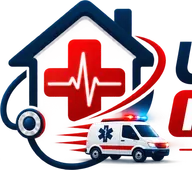
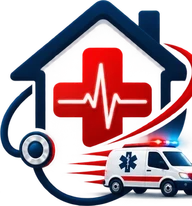
n

diff --git a/src/components/SiteHeader.tsx b/src/components/SiteHeader.tsx
@@ -42,6 +42,8 @@ export function SiteHeader({
     "absolute left-0 top-full z-50 mt-1 min-w-[15rem] rounded-xl border border-border bg-surface p-2 shadow-xl";
   const itemClass = "block rounded-md px-3 py-1.5 text-sm text-ink no-underline hover:bg-primary-tint";
   const linkClass = "whitespace-nowrap rounded-md px-2.5 py-1.5 font-semibold text-primary no-underline hover:bg-primary-tint";
+  const mobileItemClass = "block rounded-md px-3 py-2.5 font-semibold text-primary no-underline hover:bg-primary-tint";
+  const mobileSubItemClass = "block rounded-md px-3 py-2 text-sm text-ink no-underline hover:bg-primary-tint";
 
   const chevron = (
     <svg viewBox="0 0 24 24" aria-hidden="true" className="h-4 w-4 shrink-0">
@@ -70,7 +72,7 @@ export function SiteHeader({
               srcSet="/images/mark-96.webp 96w, /images/mark-192.webp 192w"
               sizes="44px"
               width={96}
-              height={85}
+              height={103}
               alt=""
               fetchPriority="high"
               decoding="sync"
@@ -106,16 +108,79 @@ export function SiteHeader({
         </div>
       </div>
 
+      {/*
+        Two navigations, one source of links.
+        - Mobile (< md): a single "Menu" disclosure. Eight top-level items
+          wrapping across three lines was unreadable on a phone.
+        - Desktop (>= md): the horizontal bar with dropdown panels.
+
+        Both are <details>, so navigation works with JavaScript disabled —
+        this is a static export and an emergency service, so the menu must
+        never depend on a bundle loading. Nested <details> in the mobile
+        panel keeps the initial list short instead of dumping 33 links.
+
+        Neither container may scroll horizontally: an `overflow-x: auto` box
+        whose `overflow-y` is `visible` computes overflow-y to `auto` too,
+        which silently clipped every dropdown to the height of the nav strip.
+      */}
       <nav aria-label="Navigation principale" className="border-b border-border bg-surface">
-        {/*
-          This container must NOT scroll horizontally. The dropdown panels
-          below are absolutely positioned children of it, and per CSS spec an
-          `overflow-x: auto` box whose `overflow-y` is `visible` computes
-          overflow-y to `auto` as well — which clipped every menu to the
-          height of the nav strip on mobile. Wrapping to a second line costs
-          a few pixels and keeps the menus openable.
-        */}
-        <div className="mx-auto max-w-5xl px-3">
+        {/* ---- mobile ---- */}
+        <details className="group/menu md:hidden">
+          <summary className="flex cursor-pointer list-none items-center justify-between px-4 py-2.5 font-bold text-primary marker:content-none">
+            <span className="flex items-center gap-2">
+              <svg viewBox="0 0 24 24" aria-hidden="true" className="h-5 w-5">
+                <path d="M4 7h16M4 12h16M4 17h16" fill="none" stroke="currentColor" strokeWidth="2.5" strokeLinecap="round" />
+              </svg>
+              Menu
+            </span>
+            <span className="transition-transform group-open/menu:rotate-180">{chevron}</span>
+          </summary>
+
+          <div className="border-t border-border px-2 pb-3 pt-2">
+            <Link href={paths.home()} prefetch={false} className={mobileItemClass}>
+              Accueil
+            </Link>
+
+            {[
+              {
+                label: "Spécialités",
+                links: specialties.map((x) => ({ href: paths.specialtyHub(x.slug), label: `${x.name} à domicile` })),
+              },
+              { label: "Services", links: services.map((x) => ({ href: paths.service(x.slug), label: x.name })) },
+              { label: "Situations", links: situations.map((x) => ({ href: paths.situation(x.slug), label: x.title })) },
+              { label: "Villes", links: cities.map((x) => ({ href: paths.cityHub(x.slug), label: x.name })) },
+            ].map((group) => (
+              <details key={group.label} name="mobilenav" className="group/sub">
+                <summary
+                  className={`${mobileItemClass} flex cursor-pointer list-none items-center justify-between marker:content-none`}
+                >
+                  {group.label}
+                  <span className="transition-transform group-open/sub:rotate-180">{chevron}</span>
+                </summary>
+                <div className="mb-1 ml-3 grid gap-0.5 border-l border-border pl-3">
+                  {group.links.map((l) => (
+                    <Link key={l.href} href={l.href} prefetch={false} className={mobileSubItemClass}>
+                      {l.label}
+                    </Link>
+                  ))}
+                </div>
+              </details>
+            ))}
+
+            <Link href={paths.tarifs()} prefetch={false} className={mobileItemClass}>
+              Tarifs
+            </Link>
+            <Link href={paths.nosMedecins()} prefetch={false} className={mobileItemClass}>
+              Nos médecins
+            </Link>
+            <Link href={paths.contact()} prefetch={false} className={mobileItemClass}>
+              Contact
+            </Link>
+          </div>
+        </details>
+
+        {/* ---- desktop ---- */}
+        <div className="mx-auto hidden max-w-5xl px-3 md:block">
           <ul className="flex flex-wrap items-center gap-x-0.5 gap-y-1 py-1.5 text-sm">
             <li>
               <Link href={paths.home()} prefetch={false} className={linkClass}>
@@ -130,9 +195,9 @@ export function SiteHeader({
                   <span className="transition-transform group-open:rotate-180">{chevron}</span>
                 </summary>
                 <div className={panelClass}>
-                  {specialties.map((s) => (
-                    <Link key={s.slug} href={paths.specialtyHub(s.slug)} prefetch={false} className={itemClass}>
-                      {s.name} à domicile
+                  {specialties.map((x) => (
+                    <Link key={x.slug} href={paths.specialtyHub(x.slug)} prefetch={false} className={itemClass}>
+                      {x.name} à domicile
                     </Link>
                   ))}
                 </div>
@@ -146,9 +211,9 @@ export function SiteHeader({
                   <span className="transition-transform group-open:rotate-180">{chevron}</span>
                 </summary>
                 <div className={`${panelClass} grid grid-cols-2 gap-x-2`}>
-                  {cities.map((c) => (
-                    <Link key={c.slug} href={paths.cityHub(c.slug)} prefetch={false} className={itemClass}>
-                      {c.name}
+                  {cities.map((x) => (
+                    <Link key={x.slug} href={paths.cityHub(x.slug)} prefetch={false} className={itemClass}>
+                      {x.name}
                     </Link>
                   ))}
                 </div>
@@ -162,9 +227,9 @@ export function SiteHeader({
                   <span className="transition-transform group-open:rotate-180">{chevron}</span>
                 </summary>
                 <div className={panelClass}>
-                  {situations.map((s) => (
-                    <Link key={s.slug} href={paths.situation(s.slug)} prefetch={false} className={itemClass}>
-                      {s.title}
+                  {situations.map((x) => (
+                    <Link key={x.slug} href={paths.situation(x.slug)} prefetch={false} className={itemClass}>
+                      {x.title}
                     </Link>
                   ))}
                 </div>
@@ -178,9 +243,9 @@ export function SiteHeader({
                   <span className="transition-transform group-open:rotate-180">{chevron}</span>
                 </summary>
                 <div className={panelClass}>
-                  {services.map((s) => (
-                    <Link key={s.slug} href={paths.service(s.slug)} prefetch={false} className={itemClass}>
-                      {s.name}
+                  {services.map((x) => (
+                    <Link key={x.slug} href={paths.service(x.slug)} prefetch={false} className={itemClass}>
+                      {x.name}
                     </Link>
                   ))}
                 </div>

diff --git a/src/app/layout.tsx b/src/app/layout.tsx
@@ -1,4 +1,4 @@
-import type { Metadata } from "next";
+import type { Metadata, Viewport } from "next";
 import type { ReactNode } from "react";
 import { SITE_NAME, SITE_URL } from "@/lib/site";
 import { content } from "@/lib/content";
@@ -14,6 +14,22 @@ export const metadata: Metadata = {
     template: `%s | ${SITE_NAME}`,
   },
   description: "Médecin à domicile au Maroc, 24h/24 et 7j/7.",
+};
+
+/**
+ * Declares the page as light-only at the document level.
+ *
+ * The CSS already sets `color-scheme: light` on :root, but that only applies
+ * once the stylesheet has loaded and parsed. Chrome on Android decides
+ * whether to apply its "Auto Dark Theme" — which algorithmically inverts
+ * pages that do not declare a scheme — earlier than that, and the result is
+ * text and background inverted inconsistently, i.e. copy that appears to
+ * share its background colour. This meta tag is read before CSS and opts out
+ * properly. The site has no dark palette, so `light` is the honest value.
+ */
+export const viewport: Viewport = {
+  colorScheme: "light",
+  themeColor: "#002454",
 };
 
 export default function RootLayout({ children }: { children: ReactNode }) {
